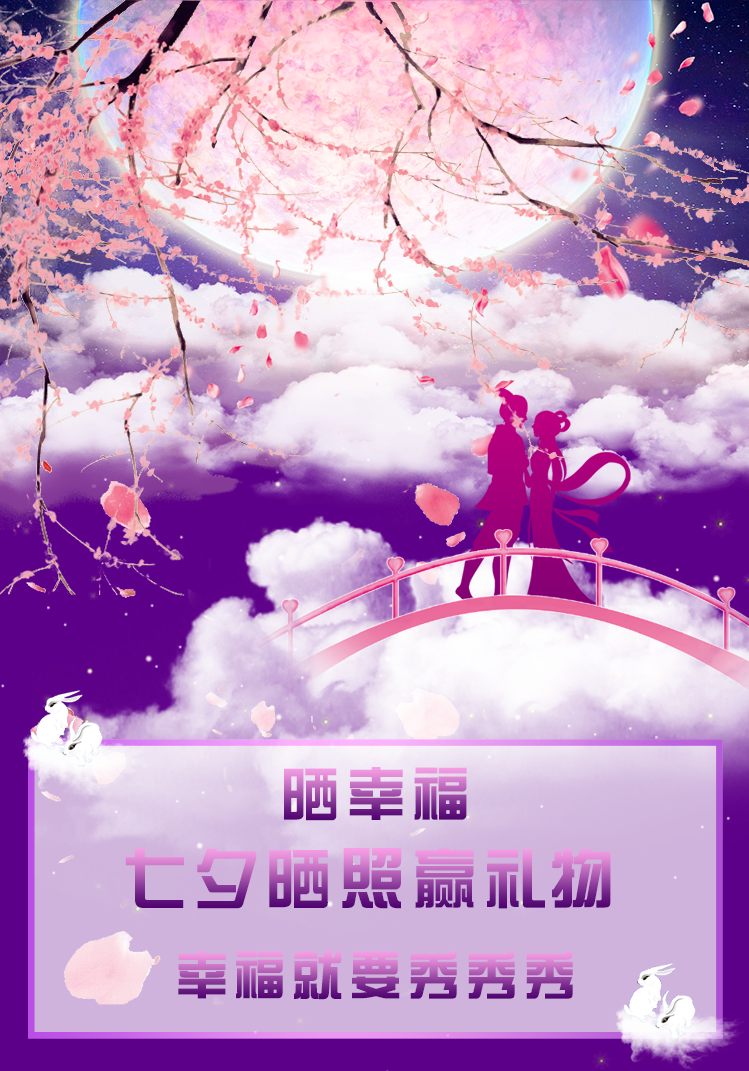
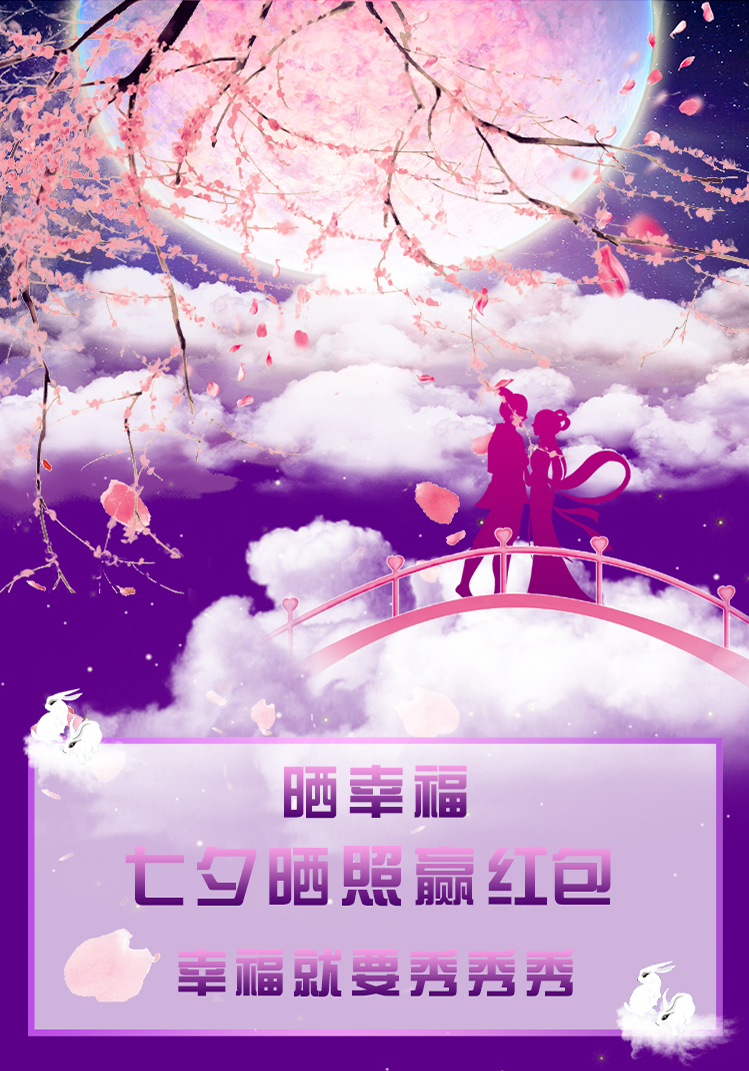
s

diff --git a/public/static/home/css/gloryindex.css b/public/static/home/css/gloryindex.css
@@ -1,5 +1,5 @@
 /*内容*/		
-.banner_in { height: 710px;background: url(../img/banner7.jpg) no-repeat;background-size: 100% 100%;}		
+.banner_in { height: 710px;background: url(../img/banner7.png) no-repeat;background-size: 100% 100%;}		
 .wond_btn {width: 600px;height: 70px;margin: 0 auto;padding-top: 600px;}
 .wond_btn .btn_time {float: left; width: 265px;height: 70px;background: url(../img/time.png) no-repeat;background-size: 100% 100%;}
 .wond_btn .btn_huaxu {float: right; width: 265px;height: 70px;background: url(../img/huaxu.png) no-repeat;background-size: 100% 100%;}
